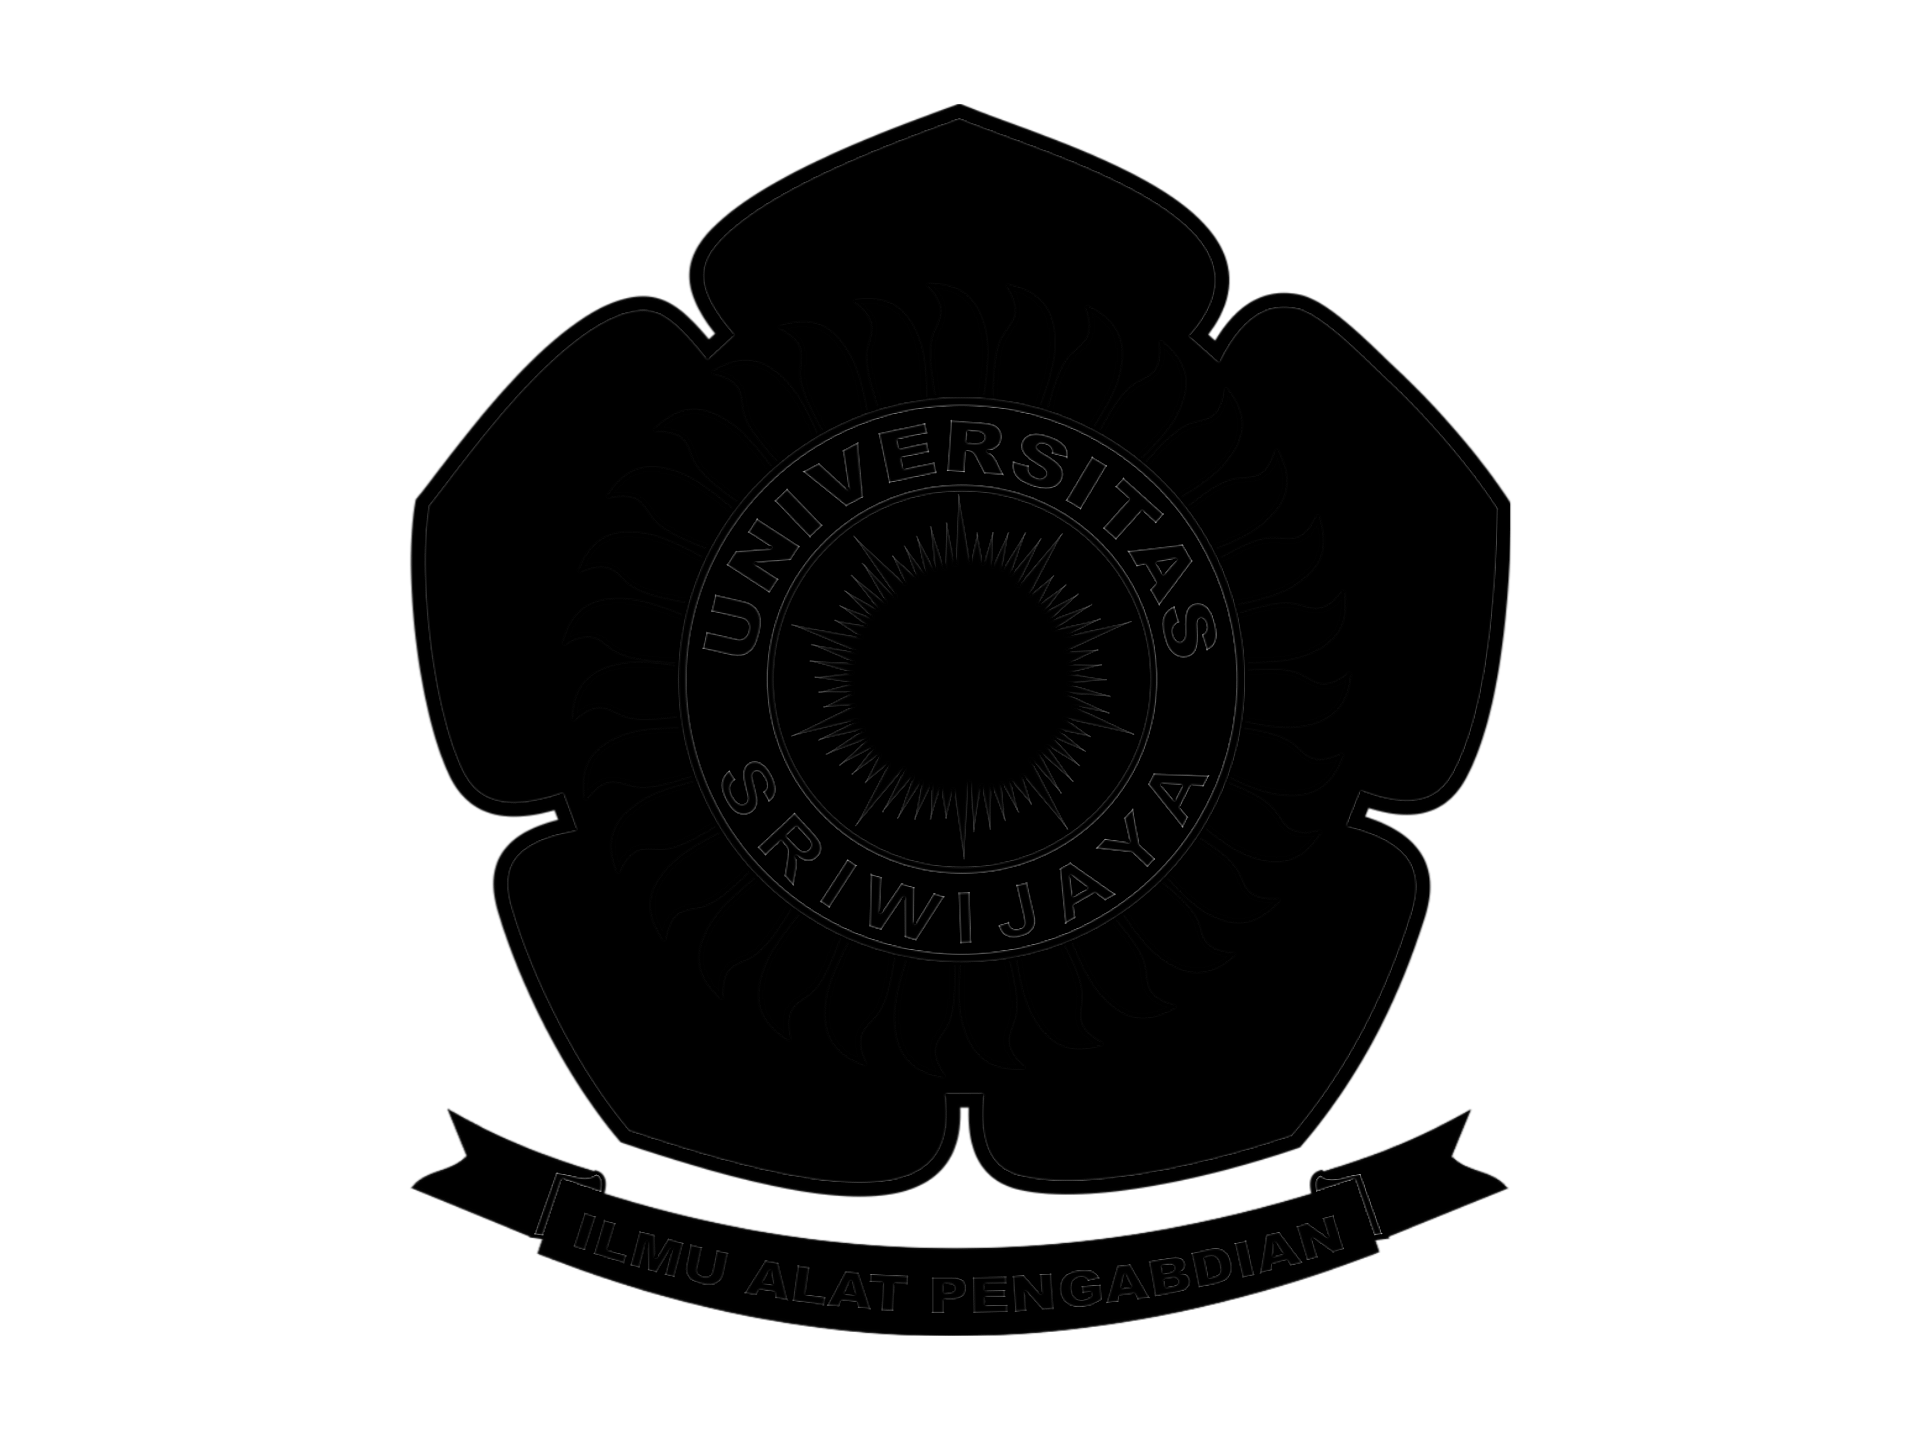
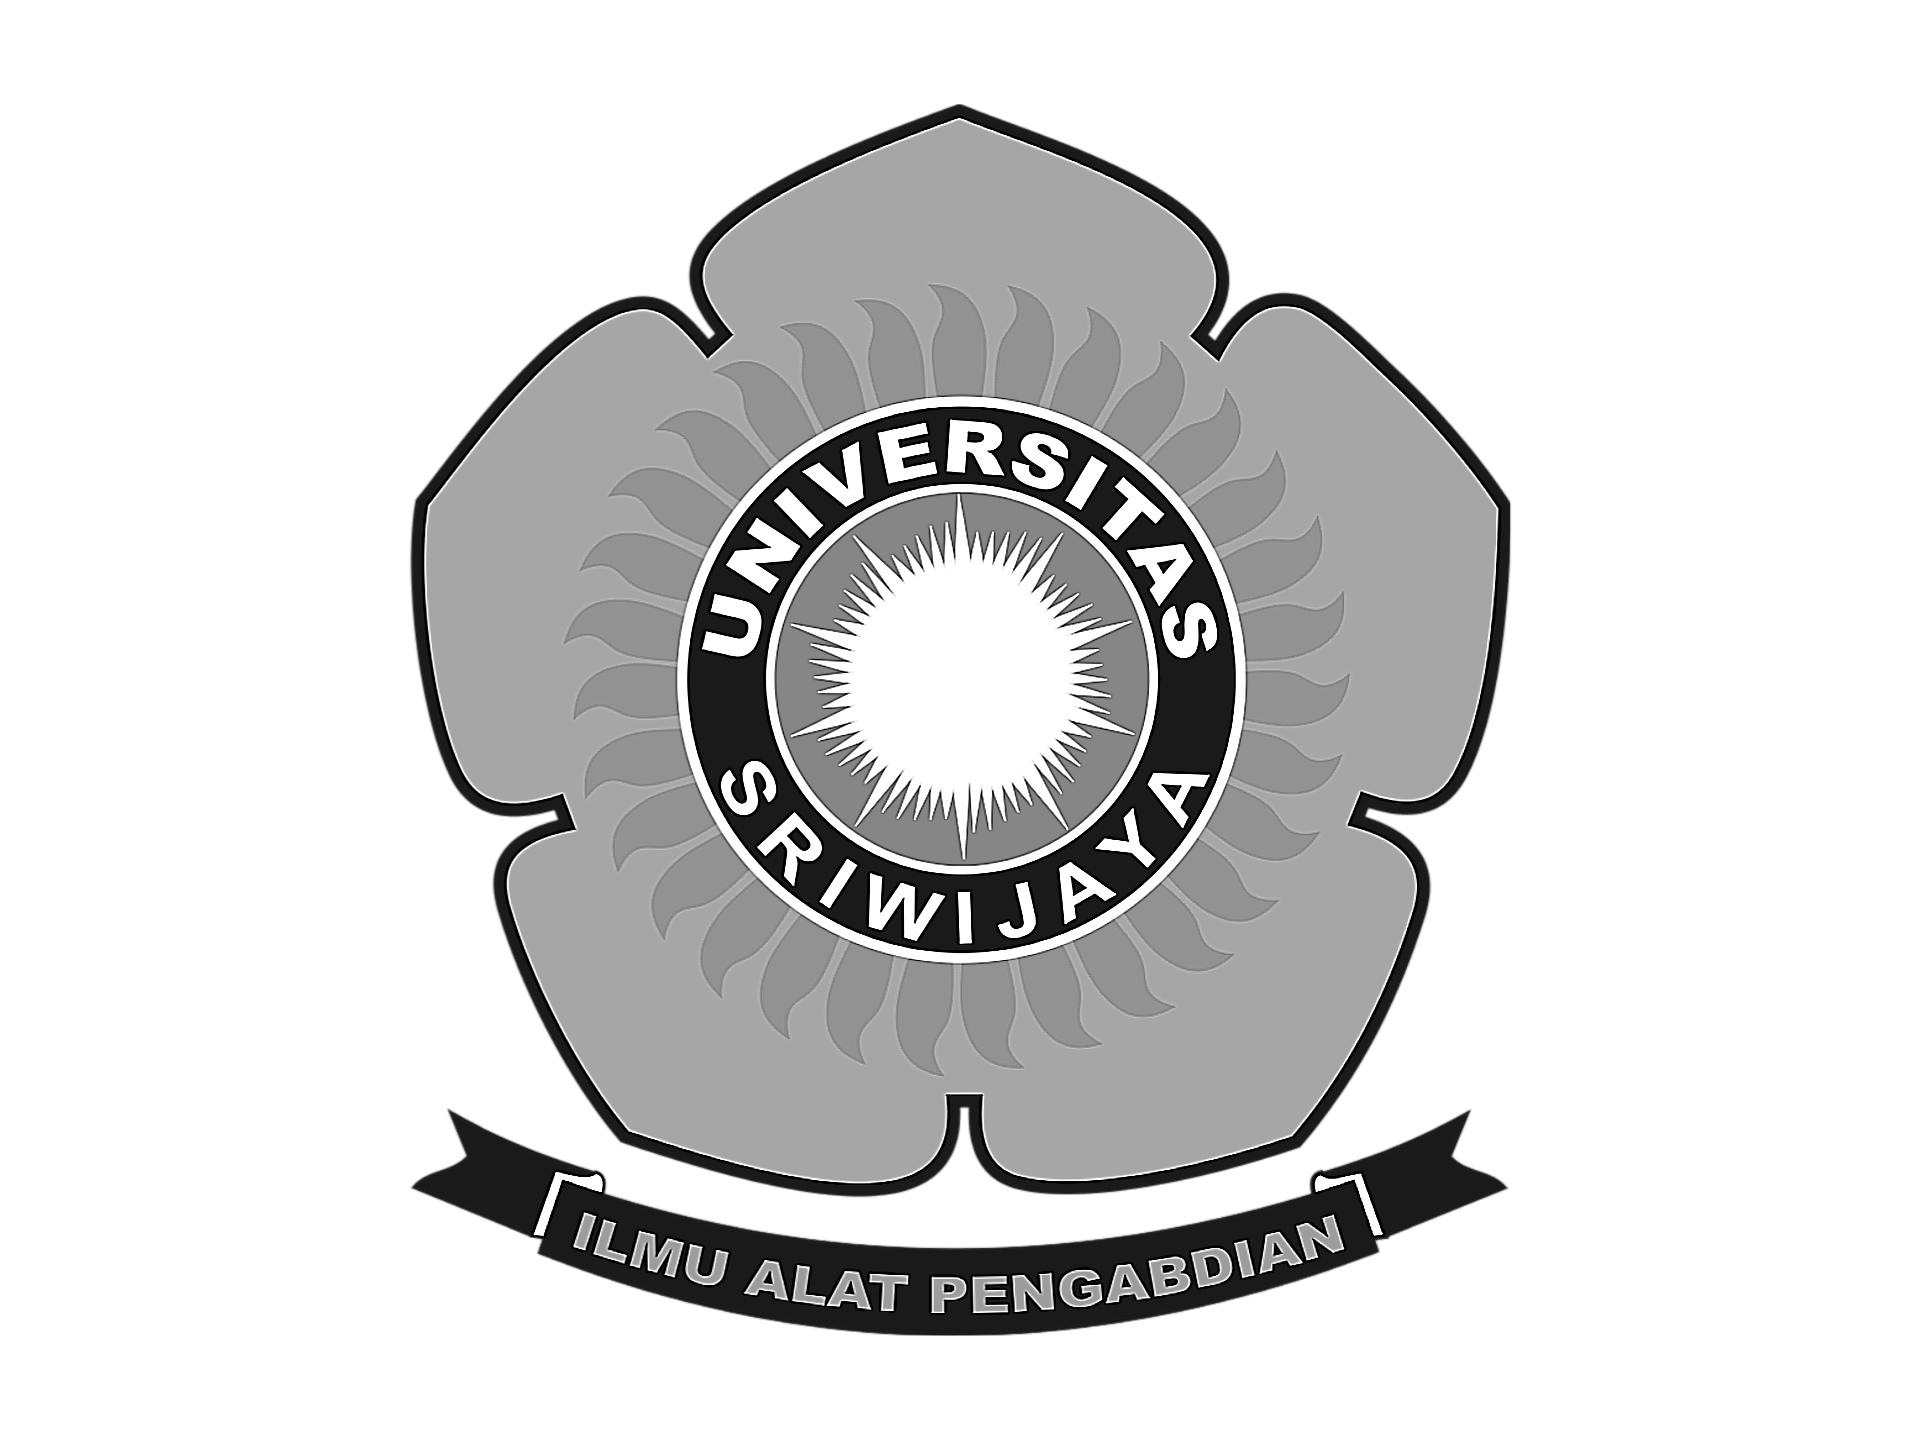
Comments
*Comment: Added comments for the added methods

diff --git a/ImageProcessor.java b/ImageProcessor.java
@@ -13,6 +13,7 @@ import javax.imageio.ImageIO;
 * 6. Threshold To Zero Inverse<br>
 * 7. Otsu Threshold<br>
 * 8. Convolutes the image using CNN with a given kernel<br>
+* 9. Sharpen the image<br>
 * @return .png file
 */
 public class ImageProcessor {
@@ -154,6 +155,10 @@ public class ImageProcessor {
     return image;
     }
 
+    /**
+     * Convolutes a single pixel using CNN with a given kernel
+     * @return output
+     */
     public static double singlePixelConvolution(double[][] input, int x, int y, double[][] kernel) {
         double output = 0;
         for (int i = 0; i < kernel.length; i++) {
@@ -209,6 +214,11 @@ public class ImageProcessor {
             }
         }
         return image;
+    }
+
+    public static BufferedImage sharpen(BufferedImage image, int width, int height) {
+        double[][] kernel = {{-1, -1, -1}, {-1, 9, -1}, {-1, -1, -1}};
+        return CNN(image, width, height, kernel);
     }
 
     /**
@@ -323,12 +333,15 @@ public class ImageProcessor {
         // // Otsu Threshold
         // image = otsuThreshold(image, width, height);
 
-        // Convolution
-        image = CNN(image, width, height, new double[][] {
-            { 0, -1, 0 },
-            { -1, 4, -1 },
-            { 0, -1, 0 }
-        });
+        // // Convolution
+        // image = CNN(image, width, height, new double[][] {
+        //     { 0, -1, 0 },
+        //     { -1, 4, -1 },
+        //     { 0, -1, 0 }
+        // });
+
+        // // Sharpen
+        image = sharpen(image, width, height);
 
         // // Prototype: Extract RGB to single Grayscale bar
         // image = prototypeExtractRGBtoSingleGrayBar(image, width, height);
